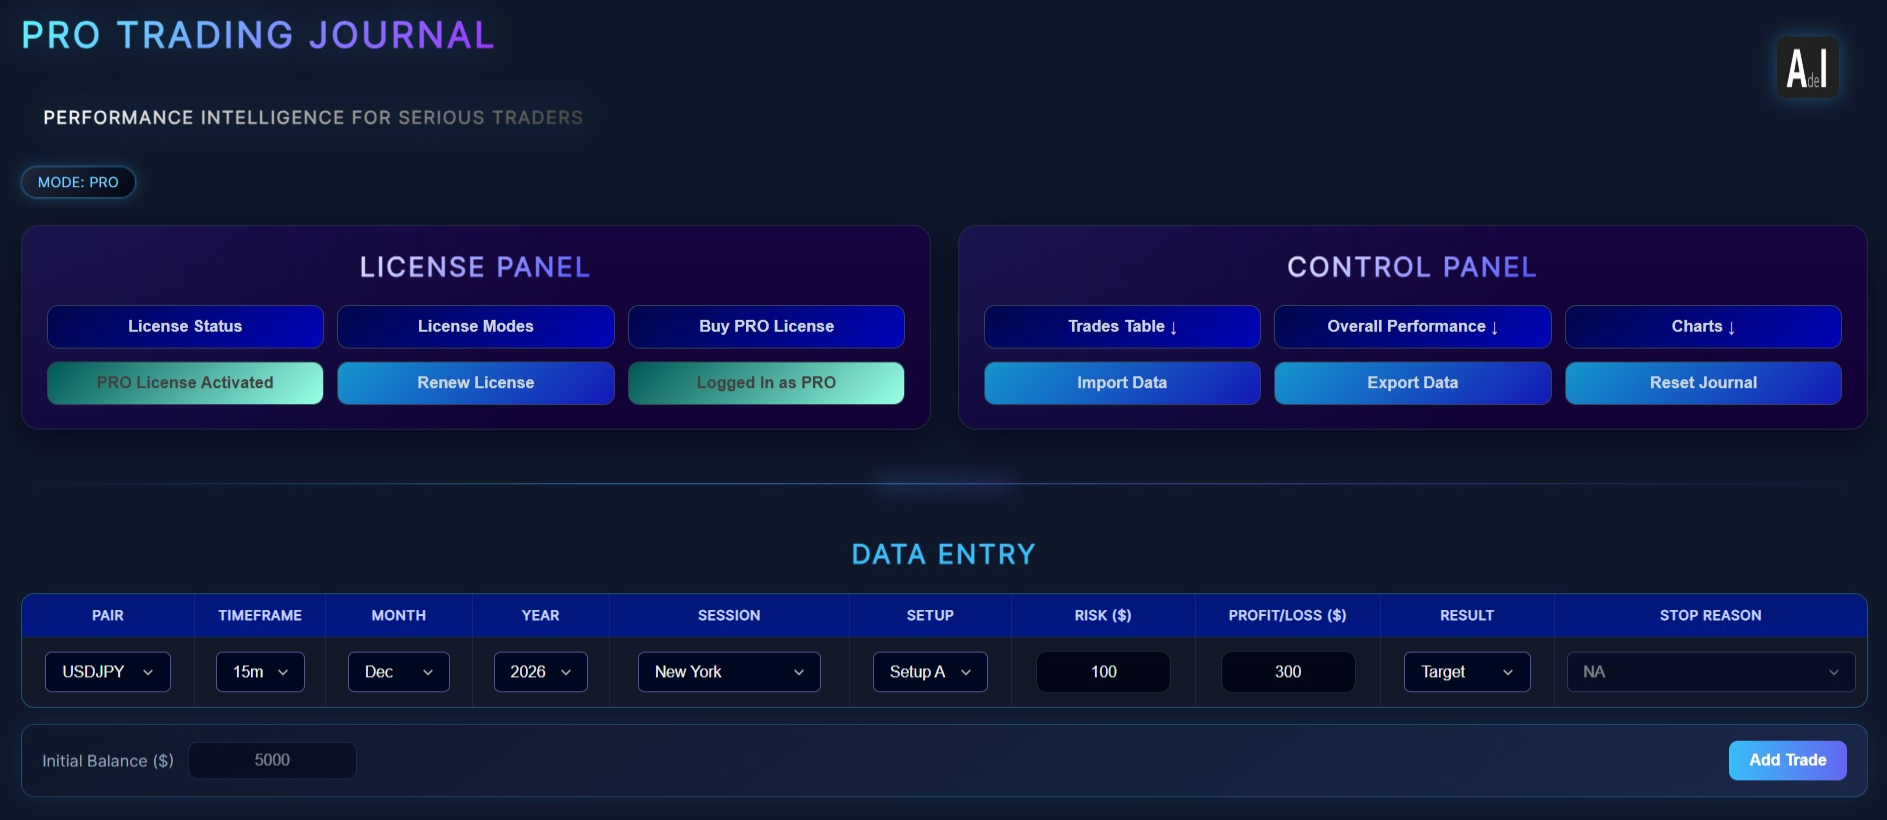
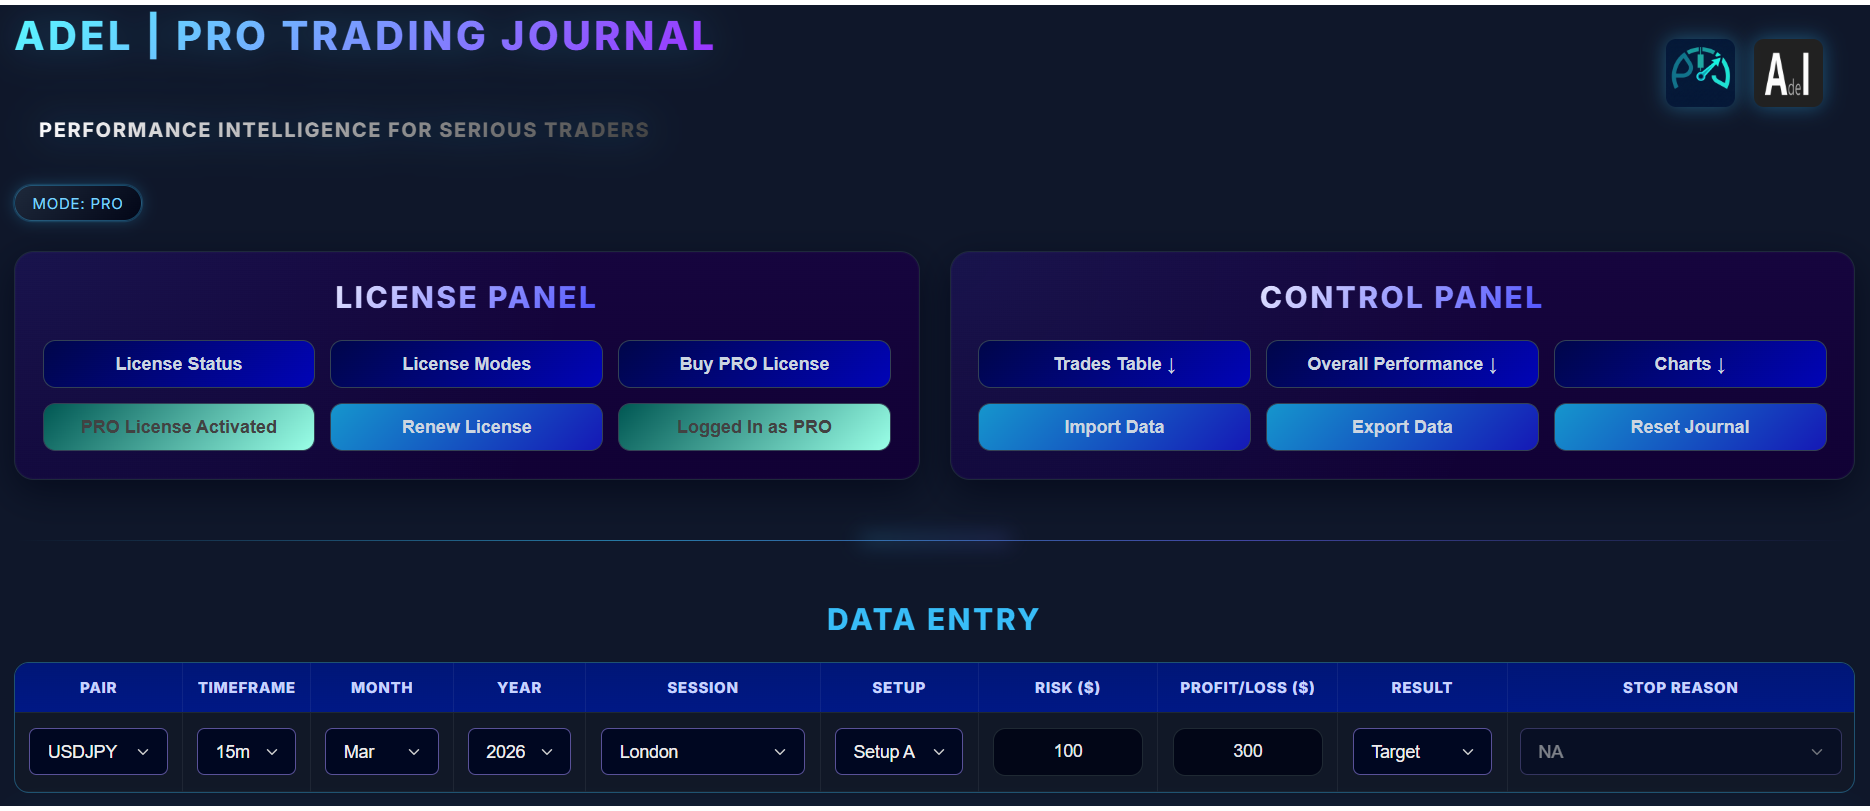
v1.0.4

diff --git a/index.html b/index.html
@@ -3,13 +3,15 @@
 <head>
     <meta charset="utf-8" />
     <meta name="viewport" content="width=device-width, initial-scale=1.0" />
-    <title>Pro Trading Journal | Web App</title>
+    <title>Adel | Pro Trading Journal | Website</title>
     
-    <meta property="og:title" content="Pro Trading Journal | Web App">
+    <meta property="og:title" content="Adel | Pro Trading Journal | Website">
     <meta property="og:description" content="A privacy-first trading journal with Performance Intelligence and Edge Computing analytics.">
-    <meta property="og:image" content="https://adel-euai.github.io/pro-trading-journal-web-app/asset/og-image.png">
+    <meta property="og:image" content="https://adel-euai.github.io/pro-trading-journal-web-app/asset/pro-trading-journal-cover.png">
     <meta property="og:url" content="https://adel-euai.github.io/pro-trading-journal-web-app/">
     <meta property="og:type" content="website">
+
+    <link rel="icon" type="image/jpg" href="asset/pro-trading-journal-favicon.png">
 
     <link rel="stylesheet" href="styles.css">
     <link rel="preconnect" href="https://fonts.googleapis.com">
@@ -20,17 +22,18 @@
 <body>
     <header class="main-header">
         <div class="header-content">
-            <h1 class="gradient-text">Pro Trading Journal</h1>
+            <h1 class="gradient-text">Adel | Pro Trading Journal</h1>
             <p class="subtitle">Track, analyze, and optimize your trading — without giving up control of your data. 
-                Pro Trading Journal is a privacy-first web application designed for traders who want real, data-driven 
+                Adel | Pro Trading Journal is a privacy-first web application designed for traders who want real, data-driven 
                 insights to understand and improve their performance.</p>
         </div>
-        <img src="asset/adel-logo.jpg" alt="Adel Logo" class="app-logo">
+        <img src="asset/pro-trading-journal-favicon.png" alt="Web App Logo" class="app-logo">
+        <img src="asset/adel-favicon.png" alt="Adel Logo" class="app-logo">
     </header>
 
     <section class="hero-section">
         <div class="hero-container">
-            <img src="asset/app-cover.png" alt="Pro Trading Journal Dashboard" class="main-cover">
+            <img src="asset/pro-trading-journal-banner.png" alt="Alt | Adel | Pro Trading Journal Dashboard" class="main-cover">
         </div>
     </section>
 
@@ -122,14 +125,14 @@
     <div class="footer-container">
 
     <div class="footer-left">
-      <span class="footer-built">© 2026 Pro Trading Journal</span>
+      <span class="footer-built">© 2026 Adel | Pro Trading Journal</span>
       <span class="footer-separator">|</span>
       <span class="footer-built">All rights reserved</span>
     </div>
 
     <div class="footer-right">
       <span class="footer-built">Built by Adel</span>
-      <img src="asset/adel-logo.jpg" alt="Adel Logo" class="footer-logo">
+      <img src="asset/adel-favicon.png" alt="Adel Logo" class="footer-logo">
       <span class="tm-mark">™</span>
     </div>
   </div>

diff --git a/terms.html b/terms.html
@@ -3,7 +3,7 @@
 <head>
   <meta charset="UTF-8" />
   <meta name="viewport" content="width=device-width, initial-scale=1.0" />
-  <title>Terms of Service — Pro Trading Journal</title>
+  <title>Terms of Service — Adel | Pro Trading Journal</title>
   <link rel="stylesheet" href="legal.css">
   <link rel="preconnect" href="https://fonts.googleapis.com">
   <link rel="preconnect" href="https://fonts.gstatic.com" crossorigin>
@@ -14,13 +14,13 @@
   <main>
     <h1>Terms of Service</h1>
     <div class="header-row">
-      <a href="index.html" class="back-link">← Back to Pro Trading Journal</a>
-      <p class="last-updated">Last Updated: 5 April 2026</p>
+      <a href="index.html" class="back-link">← Back to Home</a>
+      <p class="last-updated">Last Updated: 8 April 2026</p>
     </div>
     <section>
     <h2>1. Introduction</h2>  
     <p>
-      Welcome to <strong>Pro Trading Journal</strong> (the “Web App”) and its official website and landing pages (collectively, 
+      Welcome to <strong>Adel | Pro Trading Journal</strong> (the “Web App”) and its official website and landing pages (collectively, 
       the “Website”). The Web App is developed and maintained by <strong>the Developer (“Adel”)</strong>, 
       referred to herein as “we”, “us”, or “our”. 
     </p>
@@ -34,7 +34,7 @@
     <section>
       <h2>2. Nature of the Service</h2>
       <p>
-        Pro Trading Journal is a trading journal and analytics platform consisting of a Web App for 
+        Adel | Pro Trading Journal is a trading journal and analytics platform consisting of a Web App for 
         tracking and analyzing trading performance, and a Website for informational purposes and access to the Web App.
       </p>
       <p>The Web App does not :</p>

diff --git a/privacy.html b/privacy.html
@@ -3,7 +3,7 @@
 <head>
   <meta charset="UTF-8" />
   <meta name="viewport" content="width=device-width, initial-scale=1.0" />
-  <title>Privacy Policy — Pro Trading Journal</title>
+  <title>Privacy Policy — Adel | Pro Trading Journal</title>
   <link rel="stylesheet" href="legal.css">
   <link rel="preconnect" href="https://fonts.googleapis.com">
   <link rel="preconnect" href="https://fonts.gstatic.com" crossorigin>
@@ -14,13 +14,13 @@
   <main>
     <h1>Privacy Policy</h1>
     <div class="header-row">
-      <a href="index.html" class="back-link">← Back to Pro Trading Journal</a>
-      <p class="last-updated">Last Updated: 5 April 2026</p>
+      <a href="index.html" class="back-link">← Back to Home</a>
+      <p class="last-updated">Last Updated: 8 April 2026</p>
     </div>
     <section>
         <h2>1. Introduction</h2>
         <p>
-            This Privacy Policy applies to <strong>Pro Trading Journal</strong> (the “Web App”) and its official 
+            This Privacy Policy applies to <strong>Adel | Pro Trading Journal</strong> (the “Web App”) and its official 
             website and landing pages (collectively, the “Website”). 
             Both the Web App and the Website are developed and maintained by <strong>the Developer (“Adel”)</strong>, 
             referred to herein as “we,” “us,” or “our.”

diff --git a/styles.css b/styles.css
@@ -54,6 +54,7 @@ body {
     height: 60px;
     border-radius: 12px;
     box-shadow: 0 0 20px rgba(56, 189, 248, 0.3);
+    margin-left: 20px;
 }
 
 /* HERO SECTION */

diff --git a/README.md b/README.md
@@ -1,6 +1,6 @@
-# 🚀 Pro Trading Journal | Official Website
+# 🚀 Adel | Pro Trading Journal | Official Website
 
-This repository hosts the official landing page and legal infrastructure for **Pro Trading Journal** — a privacy-first analytics platform designed for professional traders.
+This repository hosts the official landing page and legal infrastructure for **Adel | Pro Trading Journal** — a privacy-first analytics platform designed for professional traders.
 
 ---
 
@@ -12,7 +12,7 @@ This repository hosts the official landing page and legal infrastructure for **P
 
 ## 🛡 Core Philosophy: Privacy-First Analytics
 
-Unlike traditional journals, Pro Trading Journal is built on a **Zero-Knowledge Architecture**:
+Unlike traditional journals, Adel | Pro Trading Journal is built on a **Zero-Knowledge Architecture**:
 
 - **🛡 Local-First Data:** Your trading logs and strategies never leave your device. All data is stored in your browser's local storage.
 - **⚡ Edge Computing:** Analytics are processed via **Cloudflare Workers**, ensuring high-speed performance without data logging.
@@ -43,7 +43,7 @@ pro-trading-journal-web-app/
 
 - **License Info:** See the LICENSE file for full licensing terms and information.
 - **Search Engine Optimized:** Metadata and Open Graph tags are integrated for professional social sharing and visibility.
-- **Legal Source of Truth:** This repository serves as the primary host for all legal documentation and compliance standards related to the Pro Trading Journal ecosystem.
+- **Legal Source of Truth:** This repository serves as the primary host for all legal documentation and compliance standards related to the Adel | Pro Trading Journal ecosystem.
 
 ---
 
@@ -55,4 +55,4 @@ pro-trading-journal-web-app/
 ---
 
 *Built for traders who take their data seriously.*
-*Copyright © 2026 - Pro Trading Journal Website | All Rights Reserved*
+*Copyright © 2026 - Adel | Pro Trading Journal Website | All Rights Reserved*
